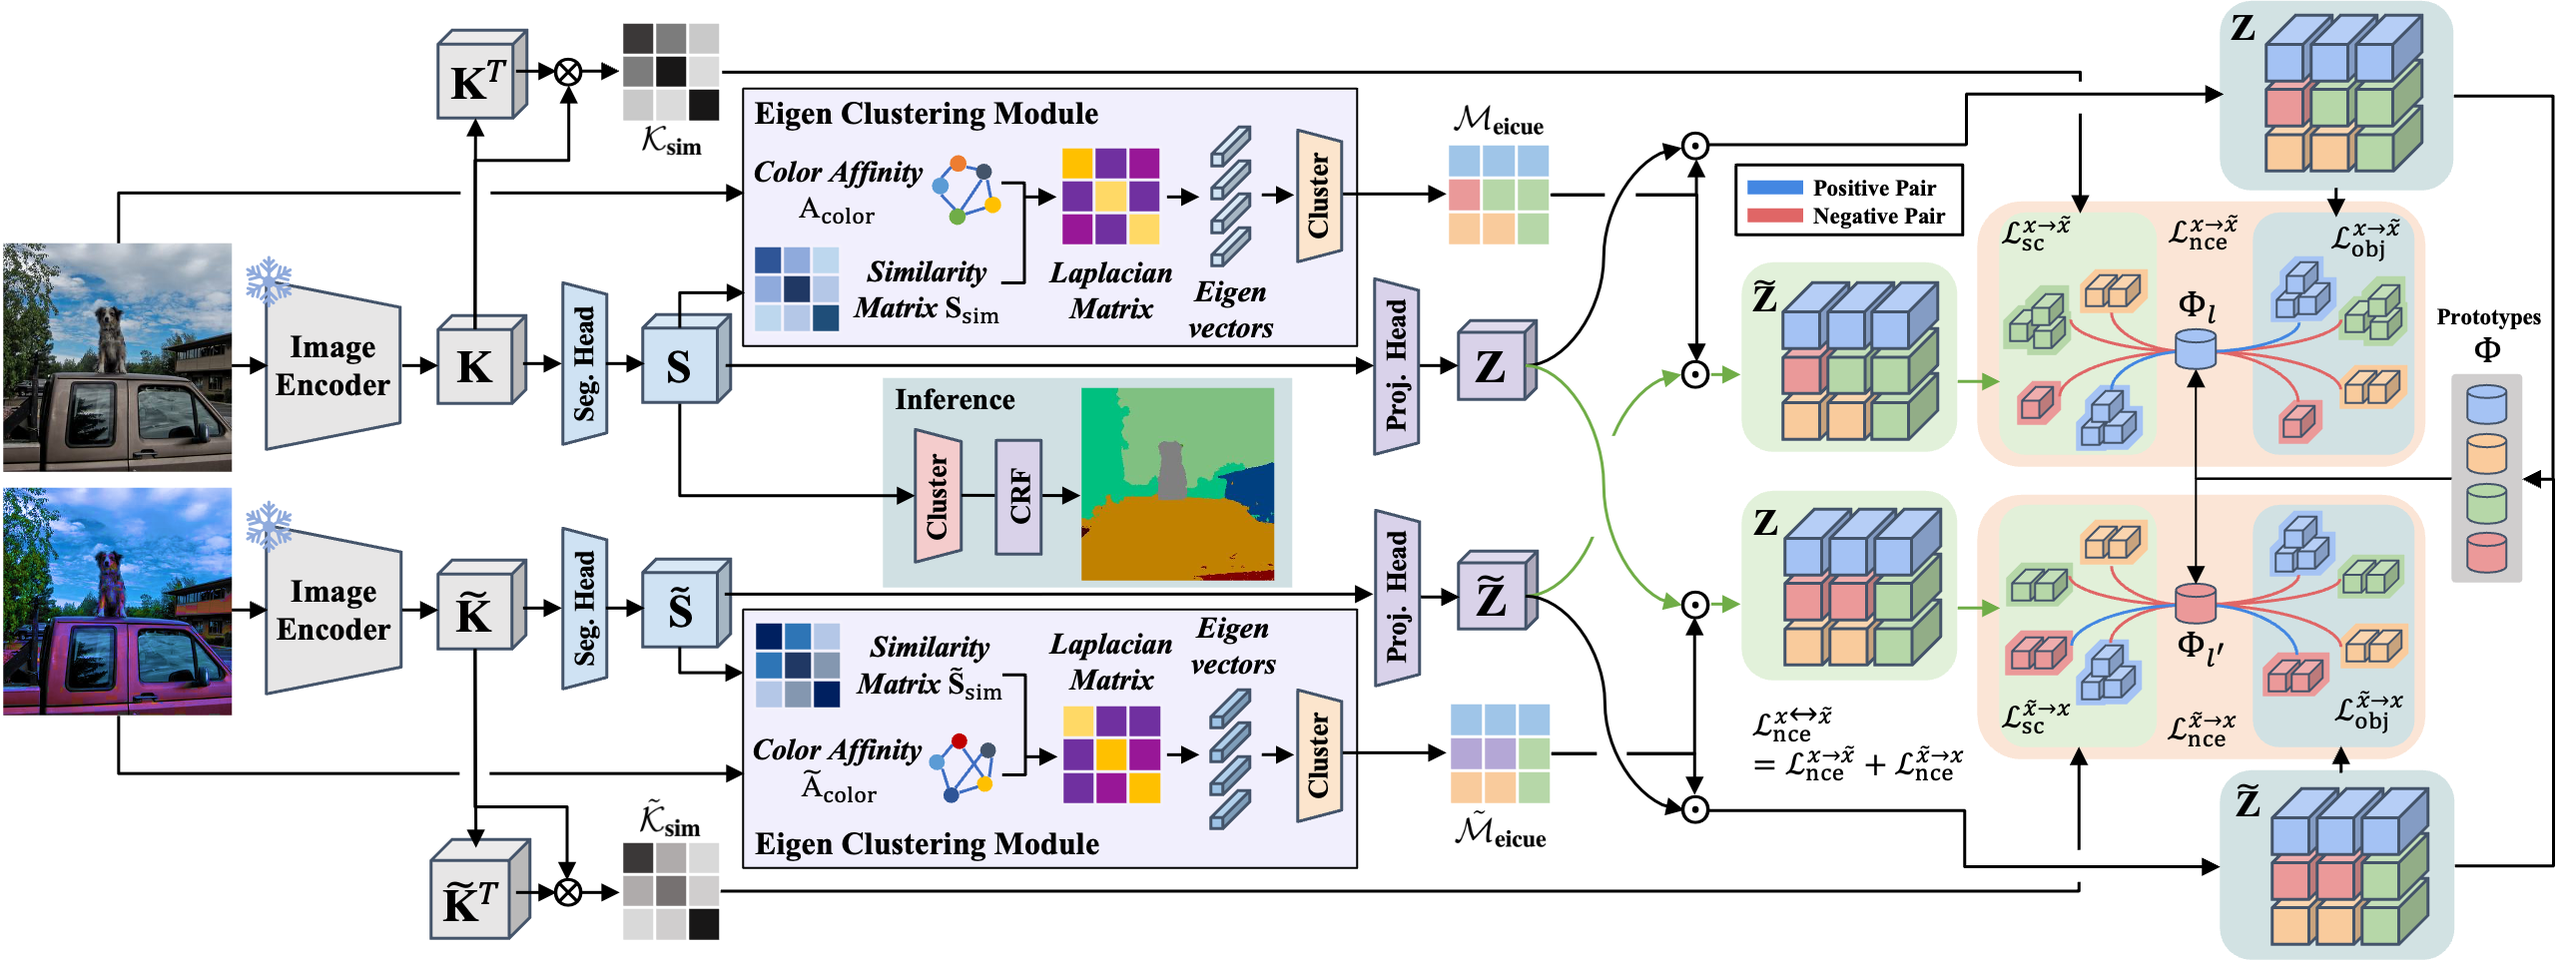
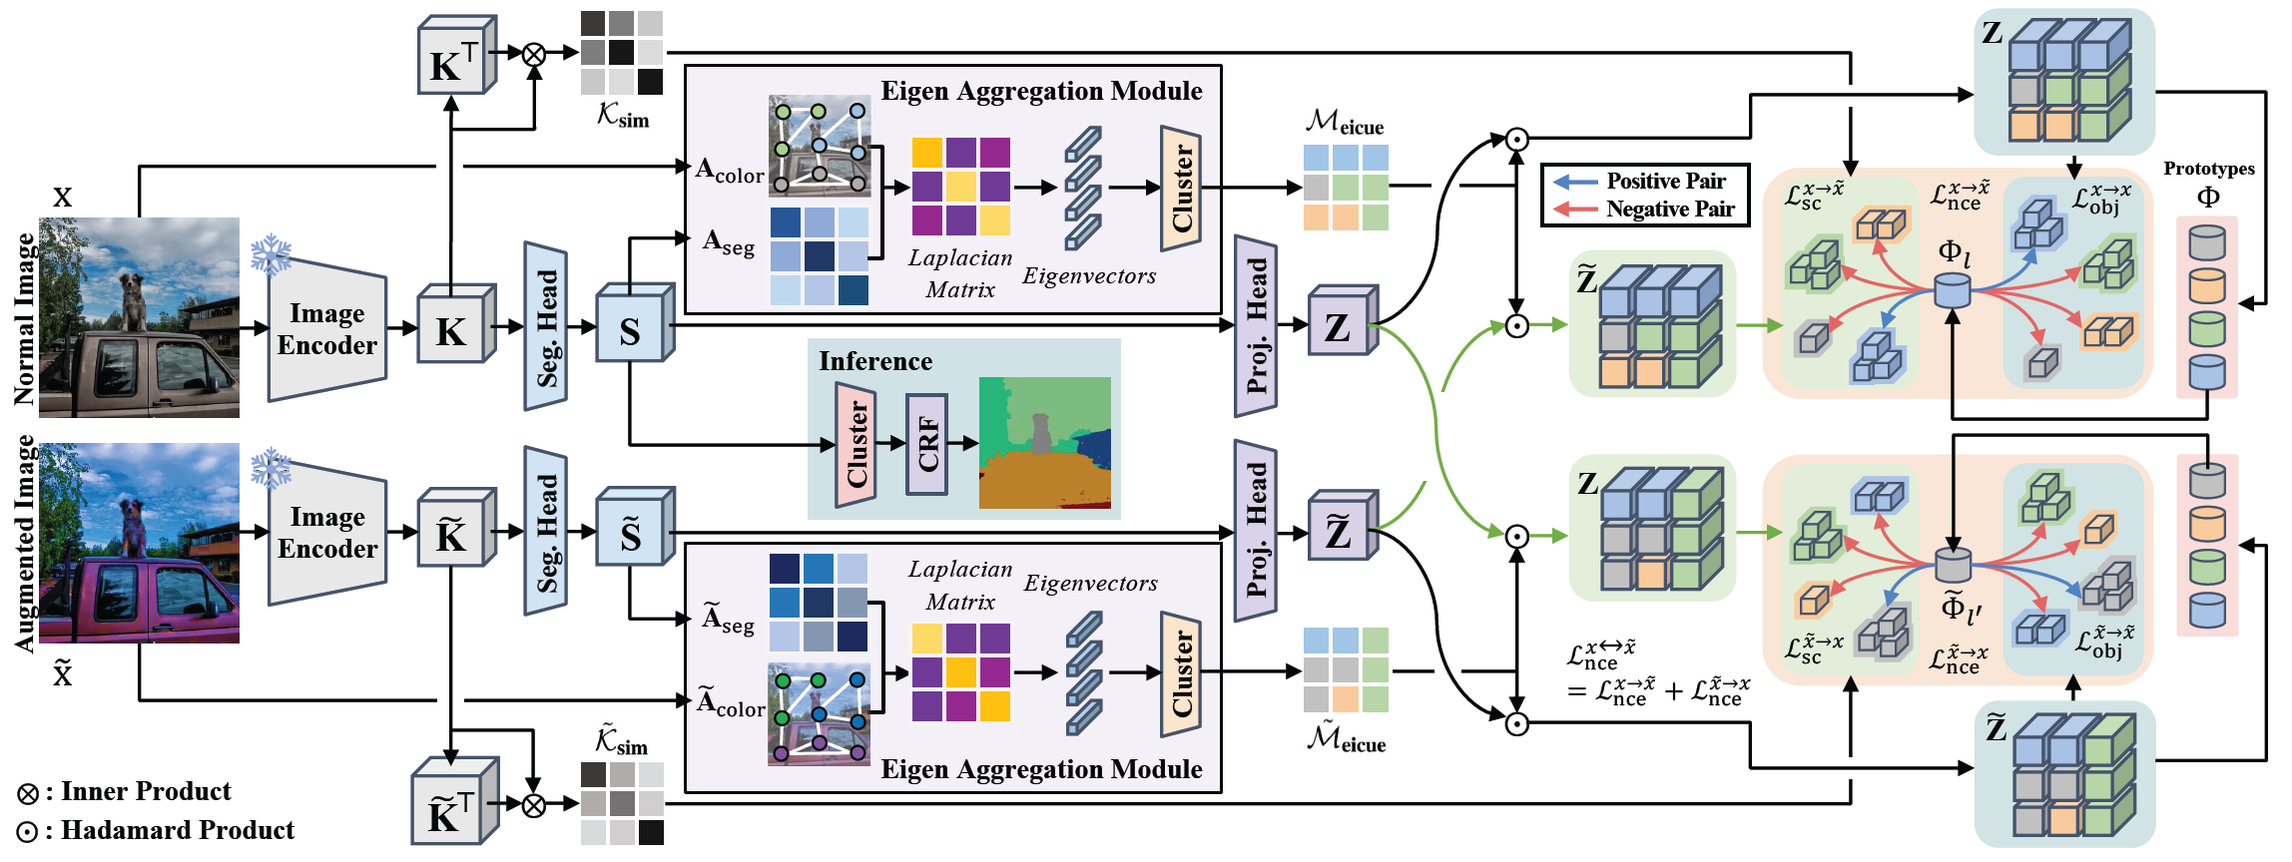
updated EAGLE

diff --git a/eagle2024/index.html b/eagle2024/index.html
@@ -207,7 +207,7 @@
         </div>
 
         <br>
-        <h4 class="title is-4 has-text-centered">Eigen Clustering Module</h4>
+        <h4 class="title is-4 has-text-centered">Eigen Aggregation Module</h4>
         <div class="content has-text-justified">
           <img src="./static/images/eigenmodule.png" alt="Main figure">
           <p>
@@ -285,7 +285,7 @@
         </section>
         <div class="content has-text-justified">
           <p>
-            Visualizing eigenvectors derived from \( \mathrm{S} \) in the Eigen Clustering Module. 
+            Visualizing eigenvectors derived from \( \mathrm{S} \) in the Eigen Aggregation Module. 
             These eigenvectors not only distinguish different objects but also identify semantically related areas, 
             highlighting how EiCue captures object semantics and boundaries effectively.
           </p>
